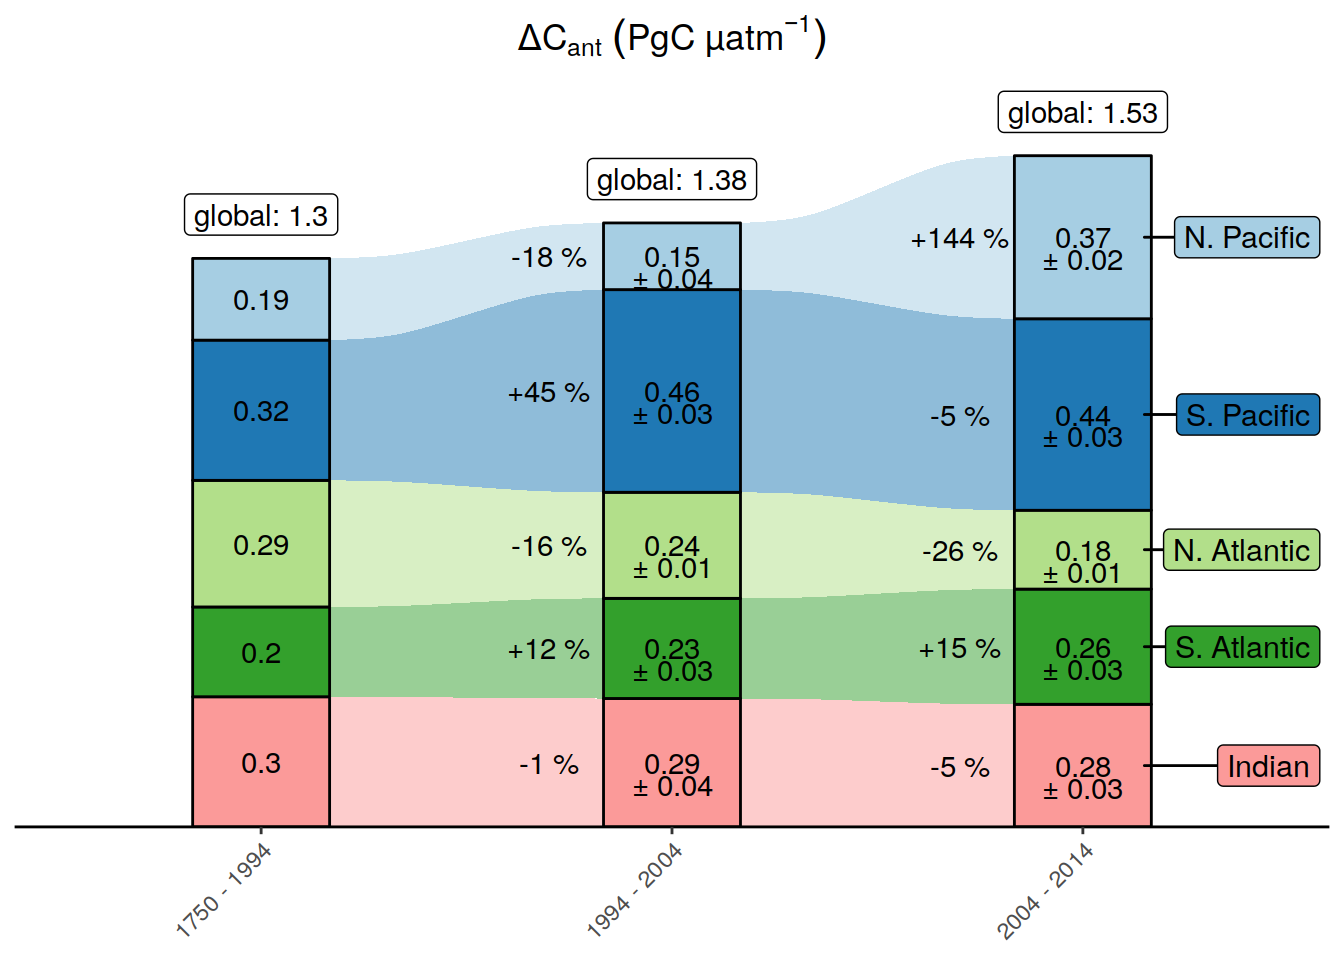
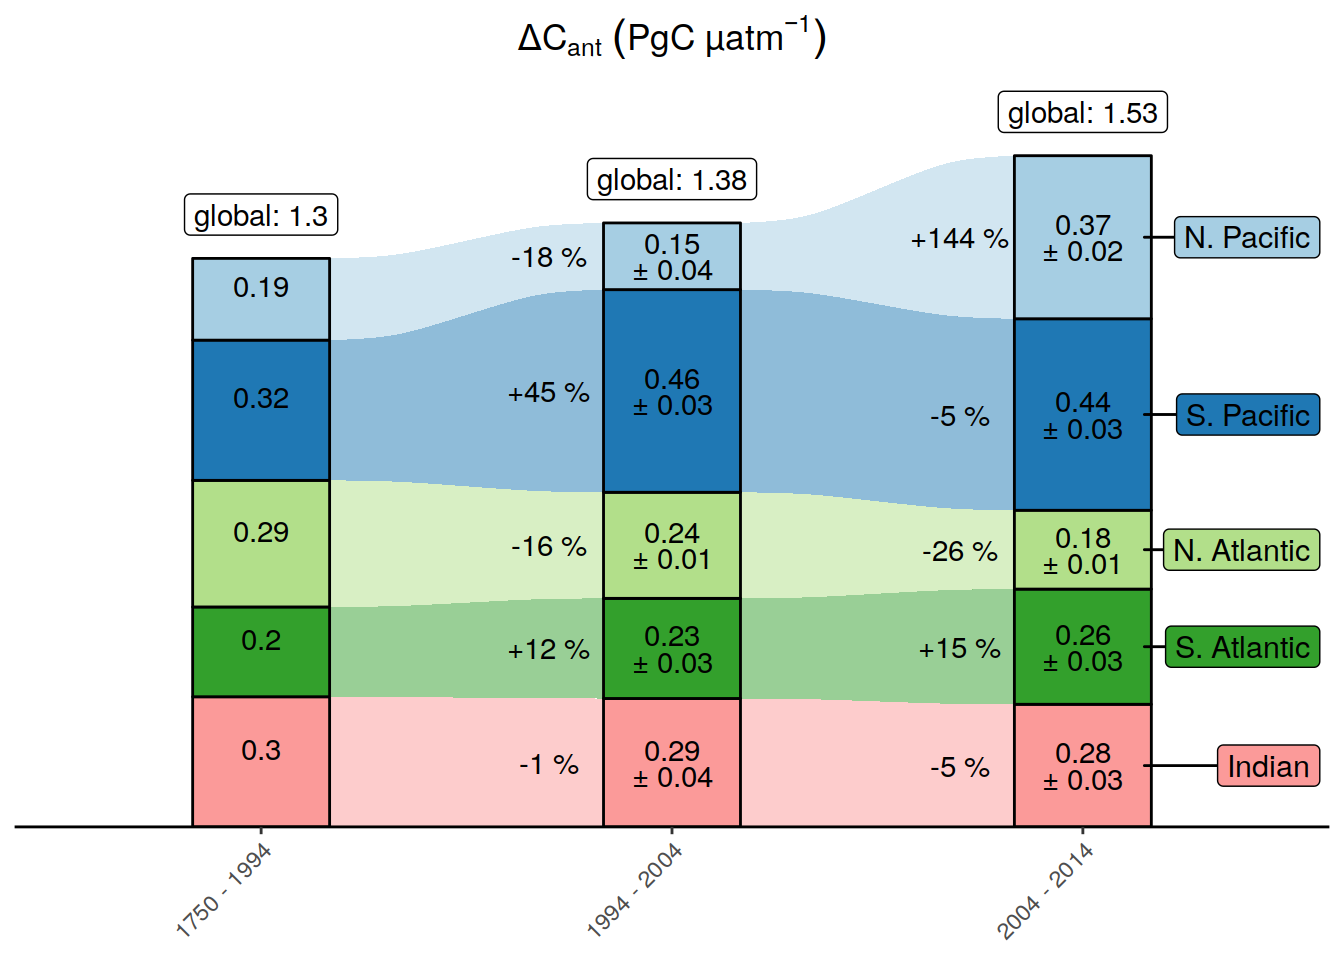
Build site.

diff --git a/docs/results_publication.html b/docs/results_publication.html
@@ -673,16 +673,16 @@ This reproducible <a href="https://rmarkdown.rstudio.com">R Markdown</a> analysi
 <div class="panel panel-default">
 <div class="panel-heading">
 <p class="panel-title">
-<a data-toggle="collapse" data-parent="#workflowr-checks" href="#strongRepositoryversionstrongahrefhttpsgithubcomjensdanielmuelleremlrobsanalysistreef98c33b8b9ae52ffdc97d64f5ee0716c4296d879targetblankf98c33ba"> <span class="glyphicon glyphicon-ok text-success" aria-hidden="true"></span> <strong>Repository version:</strong> <a href="https://github.com/jens-daniel-mueller/emlr_obs_analysis/tree/f98c33b8b9ae52ffdc97d64f5ee0716c4296d879" target="_blank">f98c33b</a> </a>
+<a data-toggle="collapse" data-parent="#workflowr-checks" href="#strongRepositoryversionstrongahrefhttpsgithubcomjensdanielmuelleremlrobsanalysistreea332fe6ec6a85d2bb6d5434b693b2204ba5dff63targetblanka332fe6a"> <span class="glyphicon glyphicon-ok text-success" aria-hidden="true"></span> <strong>Repository version:</strong> <a href="https://github.com/jens-daniel-mueller/emlr_obs_analysis/tree/a332fe6ec6a85d2bb6d5434b693b2204ba5dff63" target="_blank">a332fe6</a> </a>
 </p>
 </div>
[2 lines of base64/hex data omitted]
 <div class="panel-body">
 <p>
 Great! You are using Git for version control. Tracking code development and connecting the code version to the results is critical for reproducibility.
 </p>
 <p>
-The results in this page were generated with repository version <a href="https://github.com/jens-daniel-mueller/emlr_obs_analysis/tree/f98c33b8b9ae52ffdc97d64f5ee0716c4296d879" target="_blank">f98c33b</a>. See the <em>Past versions</em> tab to see a history of the changes made to the R Markdown and HTML files.
+The results in this page were generated with repository version <a href="https://github.com/jens-daniel-mueller/emlr_obs_analysis/tree/a332fe6ec6a85d2bb6d5434b693b2204ba5dff63" target="_blank">a332fe6</a>. See the <em>Past versions</em> tab to see a history of the changes made to the R Markdown and HTML files.
 </p>
 <p>
 Note that you need to be careful to ensure that all relevant files for the analysis have been committed to Git prior to generating the results (you can use <code>wflow_publish</code> or <code>wflow_git_commit</code>). workflowr only checks the R Markdown file, but you know if there are other scripts or data files that it depends on. Below is the status of the Git repository when the results were generated:
@@ -732,6 +732,40 @@ Message
 </tr>
 </thead>
 <tbody>
+<tr>
+<td>
+Rmd
+</td>
+<td>
+<a href="https://github.com/jens-daniel-mueller/emlr_obs_analysis/blob/a332fe6ec6a85d2bb6d5434b693b2204ba5dff63/analysis/results_publication.Rmd" target="_blank">a332fe6</a>
+</td>
+<td>
+jens-daniel-mueller
+</td>
+<td>
+2022-02-02
+</td>
+<td>
+ensemble uncertainties in time series
+</td>
+</tr>
+<tr>
+<td>
+html
+</td>
+<td>
+<a href="https://rawcdn.githack.com/jens-daniel-mueller/emlr_obs_analysis/49097e851c06f1ca23625dca180b53b7fbcb1c99/docs/results_publication.html" target="_blank">49097e8</a>
+</td>
+<td>
+jens-daniel-mueller
+</td>
+<td>
+2022-02-02
+</td>
+<td>
+Build site.
+</td>
+</tr>
 <tr>
 <td>
 Rmd
@@ -4844,6 +4878,8 @@ dcant_budget_basin_MLR_all_plot &lt;- dcant_budget_basin_MLR_all_plot %&gt;%
       &quot;Indian&quot;
     )
   )</code></pre>
+<div id="absolute" class="section level3" number="7.2.1">
+<h3><span class="header-section-number">7.2.1</span> Absolute</h3>
 <pre class="r"><code>g1 &lt;- dcant_budget_basin_MLR_all_plot %&gt;%
   filter(period != &quot;1750 - 1994&quot;) %&gt;% 
   ggplot(aes(
@@ -5154,6 +5190,9 @@ jens-daniel-mueller
 </table>
 </div>
 </div>
+</div>
+<div id="scaled" class="section level3" number="7.2.2">
+<h3><span class="header-section-number">7.2.2</span> Scaled</h3>
 <pre class="r"><code>dcant_budget_basin_MLR_all_plot &lt;- left_join(dcant_budget_basin_MLR_all_plot,
                            co2_atm %&gt;% rename(tref1 = year,
                                               pCO21 = pCO2))
@@ -5166,9 +5205,8 @@ dcant_budget_basin_MLR_all_plot &lt;- dcant_budget_basin_MLR_all_plot %&gt;%
   mutate(delta_pCO2 = pCO22 - pCO21,
          dcant_scaled = dcant / delta_pCO2,
          dcant_sd_scaled = dcant_sd / delta_pCO2) %&gt;% 
-  select(-starts_with(&quot;pCO2&quot;))
-
-g2 &lt;- dcant_budget_basin_MLR_all_plot %&gt;%
+  select(-starts_with(&quot;pCO2&quot;))</code></pre>
+<pre class="r"><code>g2 &lt;- dcant_budget_basin_MLR_all_plot %&gt;%
   filter(period != &quot;1750 - 1994&quot;) %&gt;% 
   ggplot(aes(
     y = dcant_scaled,
@@ -5455,11 +5493,11 @@ jens-daniel-mueller
   )) +
   geom_alluvium() +
   geom_stratum() +
-  stat_stratum(geom = &quot;text&quot;,
-               aes(label = paste(
-                 round(after_stat(count),2)
-                 # 100*round(after_stat(prop), 2), &quot;%&quot;
-                 ))) +
+  # stat_stratum(geom = &quot;text&quot;,
+  #              aes(label = paste(
+  #                round(after_stat(count),2)
+  #                # 100*round(after_stat(prop), 2), &quot;%&quot;
+  #                ))) +
   ggrepel::geom_label_repel(
     data = dcant_budget_basin_MLR_all_plot %&gt;% filter(period == &quot;2004 - 2014&quot;),
     stat = &quot;stratum&quot;,
@@ -5481,6 +5519,15 @@ jens-daniel-mueller
 
 
 newdat &lt;- tibble(layer_data(g2))
+
+# construct budget labels
+
+budget_basin &lt;- 
+  newdat %&gt;% 
+  select(x, y, alluvium, count)
+
+budget_layer_basin &lt;- budget_basin %&gt;% 
+  mutate(dcant = as.character(round(count,2)))
 
 # construct uncertainty labels
 
@@ -5508,6 +5555,7 @@ uncertainty_layer_basin &lt;- bind_cols(
 uncertainty_layer_basin &lt;- uncertainty_layer_basin %&gt;% 
   mutate(dcant_sd_scaled = as.character(round(dcant_sd_scaled,2)),
          dcant_sd_scaled = paste(&quot;±&quot;,dcant_sd_scaled))
+
 # construct change labels
 
 change_basin &lt;- 
@@ -5546,18 +5594,25 @@ new_layer_total &lt;- new_layer_total %&gt;%
          dcant_change = paste(&quot;global:&quot;,dcant_change))
 
 g2 +
-  geom_text(data = new_layer_basin,
+  geom_text(data = budget_layer_basin,
             aes(
-              x = x - 0.3,
-              y = y,
-              label = dcant_change
+              x = x,
+              y = y + 0.03,
+              label = dcant
             ),
             inherit.aes = FALSE) +
   geom_text(data = uncertainty_layer_basin,
             aes(
               x = x,
-              y = y - 0.05,
+              y = y - 0.03,
               label = dcant_sd_scaled
+            ),
+            inherit.aes = FALSE) +
+  geom_text(data = new_layer_basin,
+            aes(
+              x = x - 0.3,
+              y = y,
+              label = dcant_change
             ),
             inherit.aes = FALSE) +
   geom_label(data = new_layer_total,
@@ -5592,6 +5647,17 @@ Date
 <tbody>
 <tr>
 <td>
+<a href="https://github.com/jens-daniel-mueller/emlr_obs_analysis/blob/49097e851c06f1ca23625dca180b53b7fbcb1c99/docs/figure/results_publication.Rmd/budgets_basins_hemisphere_alluvial_order_basin_scaled_incl_sabine_uncertainty-1.png" target="_blank">49097e8</a>
+</td>
+<td>
+jens-daniel-mueller
+</td>
+<td>
+2022-02-02
+</td>
+</tr>
+<tr>
+<td>
 <a href="https://github.com/jens-daniel-mueller/emlr_obs_analysis/blob/fe11bfd26ca9d3f63a1bf080c7d91415bd73fc3d/docs/figure/results_publication.Rmd/budgets_basins_hemisphere_alluvial_order_basin_scaled_incl_sabine_uncertainty-1.png" target="_blank">fe11bfd</a>
 </td>
 <td>
@@ -5603,6 +5669,7 @@ jens-daniel-mueller
 </tr>
 </tbody>
 </table>
+</div>
 </div>
 </div>
 </div>
@@ -6042,11 +6109,27 @@ jens-daniel-mueller
 </div>
 <div id="time-series" class="section level1" number="8">
 <h1><span class="header-section-number">8</span> Time series</h1>
-<pre class="r"><code>dcant_budget_global_ts &lt;- dcant_budget_global_all %&gt;% 
+<pre class="r"><code>dcant_budget_global_all_ensemble_summary &lt;-
+  dcant_budget_basin_MLR_all_ensemble %&gt;%
+  filter(period != &quot;1994 - 2014&quot;) %&gt;%
+  group_by(data_source, Version_ID, tref2) %&gt;%
+  summarise(dcant = sum(dcant)) %&gt;%
+  ungroup() %&gt;%
+  group_by(data_source, tref2) %&gt;%
+  summarise(dcant_mean = mean(dcant),
+            dcant_sd = sd(dcant)*2) %&gt;%
+  ungroup() %&gt;%
+  filter(data_source == &quot;obs&quot;) %&gt;%
+  select(year = tref2, dcant_sd)
+
+dcant_budget_global_ts &lt;- dcant_budget_global_all %&gt;% 
   filter(data_source == &quot;obs&quot;,
          period != &quot;1994 - 2014&quot;) %&gt;% 
-  select(year = tref2, dcant_mean = dcant) %&gt;% 
-  mutate(dcant_sd = 3)
+  select(year = tref2, dcant_mean = dcant)
+
+dcant_budget_global_ts &lt;- left_join(dcant_budget_global_ts,
+                                    dcant_budget_global_all_ensemble_summary)
+
 
 tcant_S04 &lt;- bind_cols(year = 1994, dcant_mean = 102, dcant_sd = 19)
 
@@ -6063,17 +6146,25 @@ tcant_ts &lt;- tcant_ts %&gt;%
   mutate(tcant = cumsum(dcant_mean),
          tcant_sd = cumsum(dcant_sd))
 
+
 tcant_ts %&gt;% 
-  ggplot(aes(pCO2, tcant, ymin = tcant - tcant_sd, ymax = tcant + tcant_sd)) +
-  geom_ribbon(fill = &quot;grey80&quot;) +
-  geom_point() +
+  ggplot(aes(pCO2, tcant)) +
+  geom_ribbon(aes(ymin = tcant - tcant_sd, ymax = tcant + tcant_sd, fill = &quot;cummulative\nuncertainty&quot;),
+              alpha = 0.2) +
+  geom_linerange(aes(ymin = tcant - dcant_sd, ymax = tcant + dcant_sd, col = &quot;interval\nuncertainty&quot;)) +
   geom_line() +
-  scale_x_continuous(breaks = seq(280, 400, 30),
-                     sec.axis = dup_axis(labels =  c(1750, 1940, 1980, 2000, 2015),
-                                         name = &quot;Year&quot;)) +
-  geom_text(aes(label = year), nudge_x = -5, nudge_y = 5) +
+  scale_x_continuous(breaks = seq(280, 400, 30)
+                     # sec.axis = dup_axis(labels =  c(1750, 1940, 1980, 2000, 2015),
+                     #                     name = &quot;Year&quot;)
+                     ) +
+  scale_fill_grey() +
+  scale_color_manual(values = &quot;black&quot;) +
+  geom_text(aes(label = year), nudge_x = -8, nudge_y = 5) +
   labs(x = expression(Atmospheric~pCO[2]~(µatm)),
-       y = expression(Total~oceanic~C[ant]~(PgC)))</code></pre>
+       y = expression(Total~oceanic~C[ant]~(PgC))) +
+  theme(legend.title = element_blank(),
+        legend.background = element_rect(fill = &quot;transparent&quot;),
+        legend.position=c(0.8, 0.2))</code></pre>
 <p><img src="figure/results_publication.Rmd/mean_tcant_over_atm_co2-1.png" width="672" style="display: block; margin: auto;" /></p>
 <p>
 <button type="button" class="btn btn-default btn-xs btn-workflowr btn-workflowr-fig" data-toggle="collapse" data-target="#fig-mean_tcant_over_atm_co2-1">
